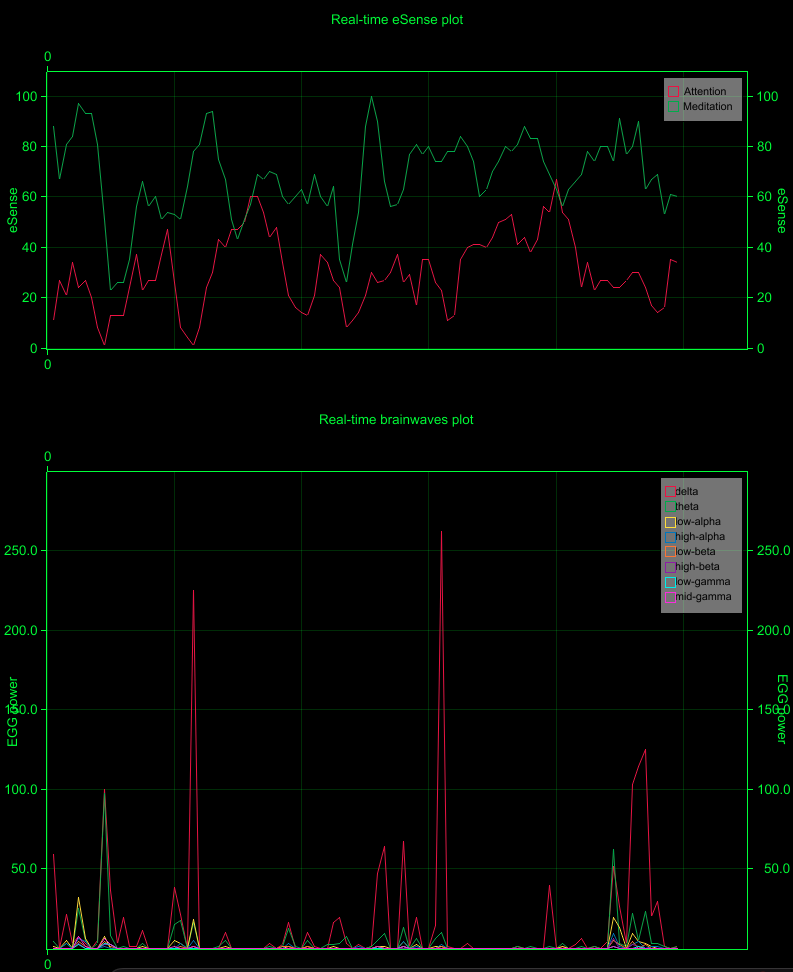
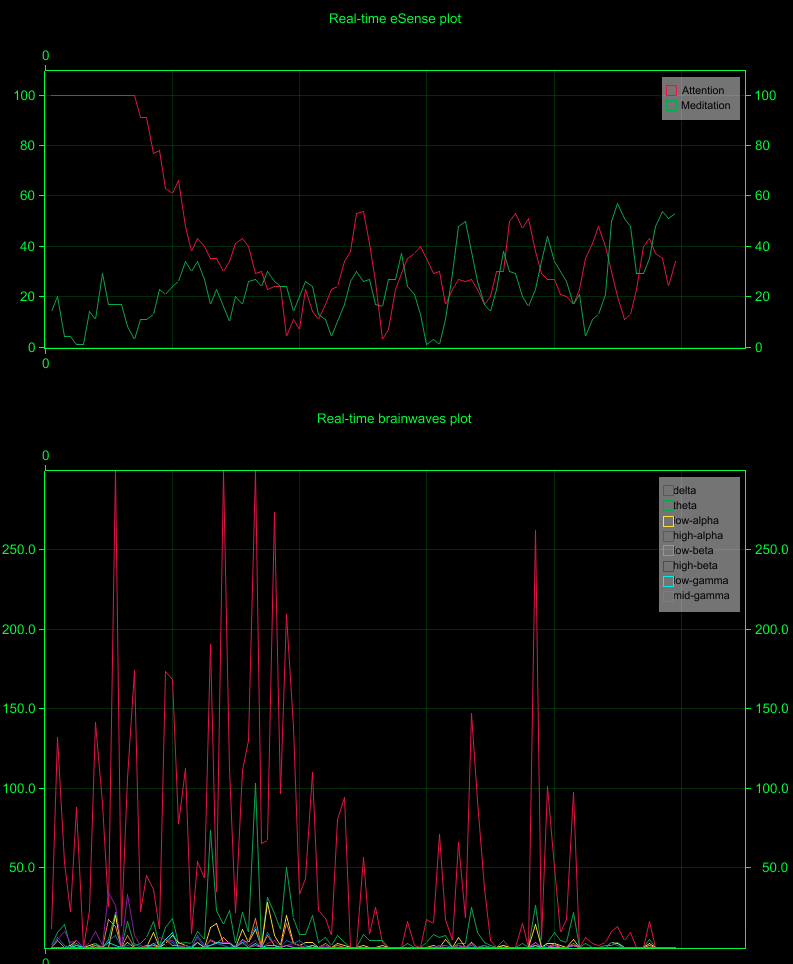
delete unnecessary y axis labels

diff --git a/src/plot.rs b/src/plot.rs
@@ -115,7 +115,6 @@ fn main() -> Result<(), Box<dyn Error>> {
         .label_style(("sans-serif", 15).into_font().color(&GREEN))
         .x_labels(1)
         .y_labels(10)
-        .y_desc("eSense")
         .axis_style(&GREEN)
         .draw()?;
     chart_low
@@ -124,7 +123,6 @@ fn main() -> Result<(), Box<dyn Error>> {
         .label_style(("sans-serif", 15).into_font().color(&GREEN))
         .x_labels(1)
         .y_labels(8)
-        .y_desc("EEG power")
         .axis_style(&GREEN)
         .draw()?;
     let cs_up = chart_up.into_chart_state();
